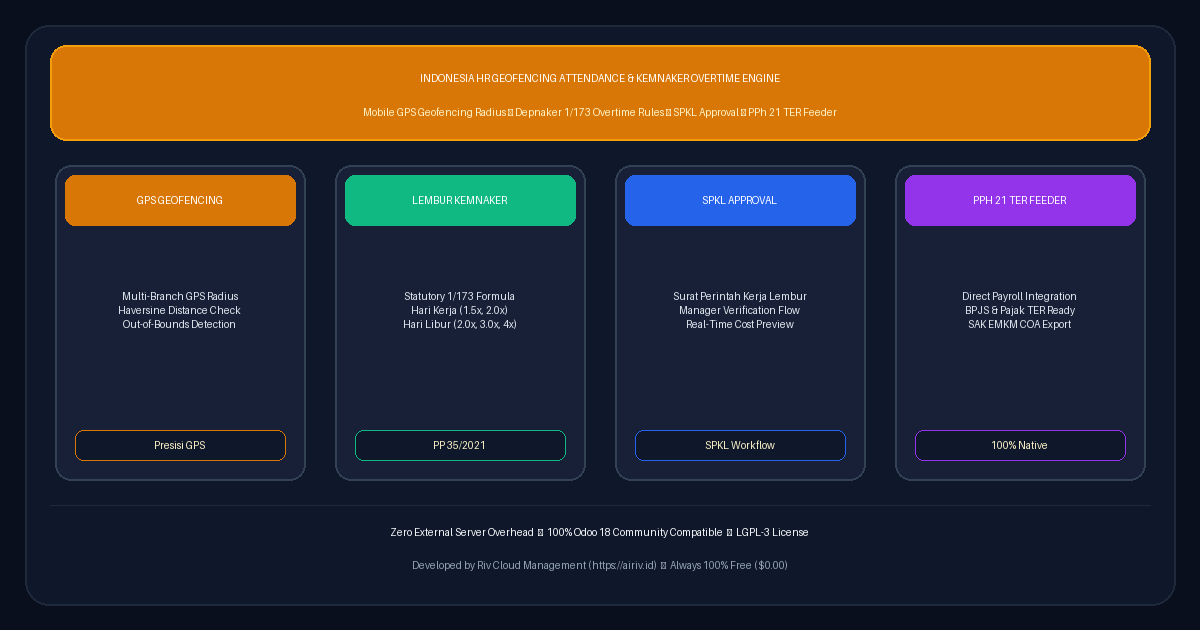
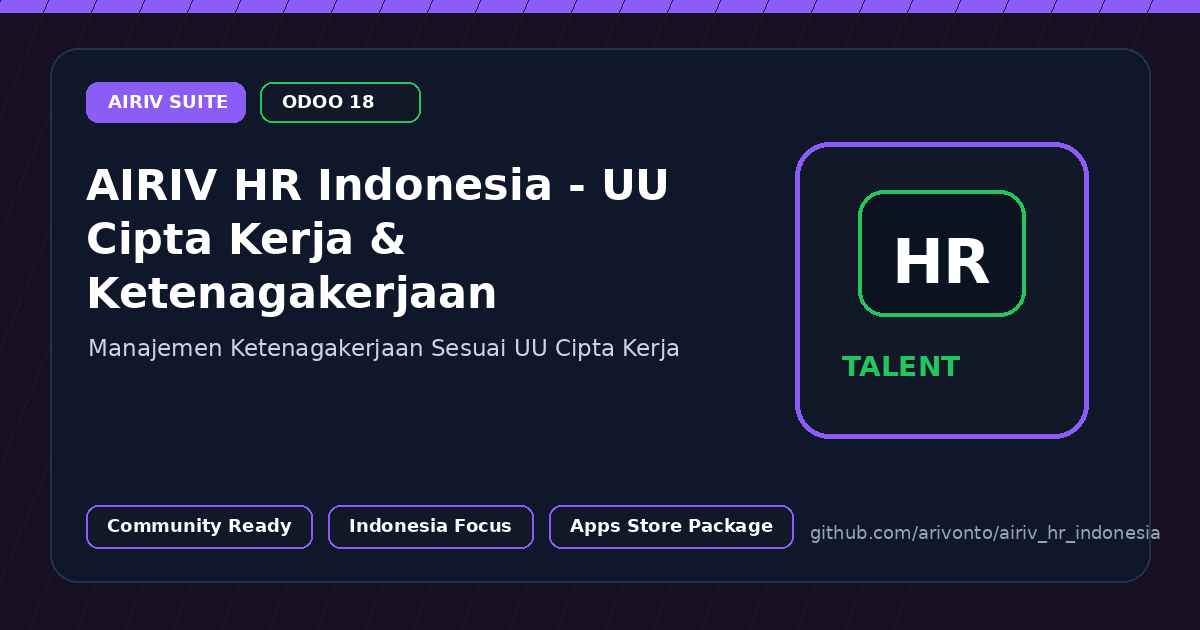
Refresh Odoo Apps Store assets and metadata

diff --git a/airiv_hr_indonesia/static/description/index.html b/airiv_hr_indonesia/static/description/index.html
@@ -1,172 +1,38 @@
 <!DOCTYPE html>
-<html lang="id">
+<html lang="en">
 <head>
-    <meta charset="utf-8"/>
-    <meta name="viewport" content="width=device-width, initial-scale=1.0"/>
-    <title>Indonesia HR Geofencing Attendance & Depnaker Overtime Engine</title>
+  <meta charset="utf-8">
+  <meta name="viewport" content="width=device-width, initial-scale=1">
+  <title>AIRIV HR Indonesia - UU Cipta Kerja & Ketenagakerjaan</title>
+  <style>
+    body { margin:0; font-family: Arial, sans-serif; color:#14212f; background:#fff; }
+    .hero { padding:44px; border-radius:18px; background:#08111f; color:#fff; }
+    .badge { display:inline-block; padding:8px 12px; border-radius:999px; background:#0f766e; font-weight:700; font-size:13px; }
+    h1 { font-size:38px; line-height:1.15; margin:20px 0 12px; }
+    .lead { font-size:18px; color:#cbd5e1; max-width:900px; }
+    .grid { display:grid; grid-template-columns:repeat(3,1fr); gap:18px; margin:24px 0; }
+    .card { border:1px solid #e5e7eb; border-radius:14px; padding:22px; background:#fff; }
+    .card h3 { margin-top:0; color:#0f766e; }
+    .section { padding:28px 0; }
+    @media (max-width: 800px) { .grid { grid-template-columns:1fr; } h1 { font-size:30px; } .hero { padding:28px; } }
+  </style>
 </head>
-<body style="font-family: -apple-system, BlinkMacSystemFont, 'Segoe UI', Roboto, Helvetica, Arial, sans-serif; color: #0f172a; background-color: #ffffff; margin: 0; padding: 16px; box-sizing: border-box;">
-
-<!-- 1. Hero Card (Clean High-Contrast Light Theme) -->
-<div style="background-color: #f8fafc; border: 1px solid #cbd5e1; border-top: 6px solid #d97706; border-radius: 12px; padding: 32px 24px; margin-bottom: 32px; text-align: center; box-shadow: 0 4px 6px -1px rgba(0,0,0,0.05);">
-    <div style="display: inline-block; background-color: #d97706; color: #ffffff; font-size: 12px; font-weight: 800; padding: 6px 14px; border-radius: 20px; margin-bottom: 14px; text-transform: uppercase; letter-spacing: 0.5px;">
-        🇮🇩 KEMNAKER PP 35/2021 & UU CIPTA KERJA
+<body>
+  <div class="hero">
+    <span class="badge">AIRIV Suite for Odoo 18</span>
+    <h1>AIRIV HR Indonesia - UU Cipta Kerja & Ketenagakerjaan</h1>
+    <p class="lead">Manajemen Ketenagakerjaan Sesuai UU Cipta Kerja</p>
+  </div>
+  <div class="section">
+    <div class="grid">
+      <div class="card"><h3>Business Ready</h3><p>Packaged as a focused Odoo application for Indonesian operating workflows.</p></div>
+      <div class="card"><h3>Community First</h3><p>Designed for Odoo 18 with clear dependencies, clean manifest metadata, and Apps Store assets.</p></div>
+      <div class="card"><h3>AIRIV UX</h3><p>Part of the AIRIV vertical ERP suite with consistent identity, iconography, and product positioning.</p></div>
     </div>
-    <h1 style="font-weight: 800; font-size: 28px; color: #0f172a; margin-top: 0; margin-bottom: 12px; line-height: 1.3;">
-        Indonesia HR Geofencing Attendance & Depnaker Overtime Engine
-    </h1>
-    <p style="font-size: 15.5px; color: #334155; max-width: 850px; margin: 0 auto 20px auto; line-height: 1.65;">
-        Advanced Indonesian HR & Attendance Suite for Odoo 18. Features GPS Workplace Geofencing with Haversine radius validation, statutory Depnaker 1/173 Overtime calculations, SPKL workflows, and PPh 21 TER feeder.
-    </p>
-    <div style="display: flex; justify-content: center; gap: 8px; flex-wrap: wrap;">
-        <span style="display: inline-block; background-color: #e2e8f0; color: #0f172a; border: 1px solid #cbd5e1; font-size: 12px; font-weight: 600; padding: 5px 12px; border-radius: 6px;">Odoo 18.0 Community</span>
-        <span style="display: inline-block; background-color: #e2e8f0; color: #0f172a; border: 1px solid #cbd5e1; font-size: 12px; font-weight: 600; padding: 5px 12px; border-radius: 6px;">LGPL-3 License</span>
-        <span style="display: inline-block; background-color: #059669; color: #ffffff; font-size: 12px; font-weight: 700; padding: 5px 12px; border-radius: 6px;">100% Free ($0.00)</span>
-        <span style="display: inline-block; background-color: #e2e8f0; color: #0f172a; border: 1px solid #cbd5e1; font-size: 12px; font-weight: 600; padding: 5px 12px; border-radius: 6px;">Zero External Overhead</span>
-    </div>
-</div>
-
-<!-- 2. Showcase Banner Image -->
-<div style="text-align: center; margin-bottom: 36px;">
-    <img src="banner.png" alt="Indonesia HR Geofencing Attendance & Depnaker Overtime Engine" style="border-radius: 12px; border: 1px solid #cbd5e1; max-width: 100%; height: auto; box-shadow: 0 4px 6px -1px rgba(0,0,0,0.08);"/>
-</div>
-
-<!-- 3. Core Pillars -->
-<div style="margin-bottom: 36px;">
-    <div style="text-align: center; margin-bottom: 24px;">
-        <h2 style="font-weight: 800; color: #0f172a; font-size: 22px; margin-top: 0; margin-bottom: 6px;">
-            Core Capabilities & Architecture
-        </h2>
-        <p style="color: #475569; font-size: 14.5px; margin: 0;">
-            Engineered specifically for Indonesian statutory compliance and operational efficiency
-        </p>
-    </div>
-
-    <div style="display: flex; flex-wrap: wrap; gap: 16px;">
-        
-        <div style="flex: 1 1 calc(25% - 16px); min-width: 240px; box-sizing: border-box; margin-bottom: 16px;">
-            <div style="background-color: #ffffff; border: 1px solid #cbd5e1; border-top: 5px solid #d97706; border-radius: 10px; padding: 20px; height: 100%; box-shadow: 0 2px 4px rgba(0,0,0,0.04); box-sizing: border-box;">
-                <h4 style="font-weight: 800; color: #0f172a; margin-top: 0; margin-bottom: 10px; font-size: 16px;">GPS Geofencing Attendance</h4>
-                <p style="font-size: 13.5px; color: #334155; line-height: 1.6; margin-bottom: 14px;">Calculates geodesic check-in distance with custom workplace tolerance radiuses (meters).</p>
-                <div style="display: inline-block; background-color: #d97706; color: #ffffff; font-size: 11px; font-weight: 700; padding: 4px 10px; border-radius: 6px; text-transform: uppercase; letter-spacing: 0.5px;">
-                    Geofence GPS
-                </div>
-            </div>
-        </div>
-        
-        <div style="flex: 1 1 calc(25% - 16px); min-width: 240px; box-sizing: border-box; margin-bottom: 16px;">
-            <div style="background-color: #ffffff; border: 1px solid #cbd5e1; border-top: 5px solid #0284c7; border-radius: 10px; padding: 20px; height: 100%; box-shadow: 0 2px 4px rgba(0,0,0,0.04); box-sizing: border-box;">
-                <h4 style="font-weight: 800; color: #0f172a; margin-top: 0; margin-bottom: 10px; font-size: 16px;">Depnaker 1/173 Hourly Rate</h4>
-                <p style="font-size: 13.5px; color: #334155; line-height: 1.6; margin-bottom: 14px;">Statutory hourly wage formula: Upah Sejam = 1/173 x (Gaji Pokok + Tunjangan Tetap).</p>
-                <div style="display: inline-block; background-color: #0284c7; color: #ffffff; font-size: 11px; font-weight: 700; padding: 4px 10px; border-radius: 6px; text-transform: uppercase; letter-spacing: 0.5px;">
-                    Formula 1/173
-                </div>
-            </div>
-        </div>
-        
-        <div style="flex: 1 1 calc(25% - 16px); min-width: 240px; box-sizing: border-box; margin-bottom: 16px;">
-            <div style="background-color: #ffffff; border: 1px solid #cbd5e1; border-top: 5px solid #059669; border-radius: 10px; padding: 20px; height: 100%; box-shadow: 0 2px 4px rgba(0,0,0,0.04); box-sizing: border-box;">
-                <h4 style="font-weight: 800; color: #0f172a; margin-top: 0; margin-bottom: 10px; font-size: 16px;">Workday & Holiday Overtime</h4>
-                <p style="font-size: 13.5px; color: #334155; line-height: 1.6; margin-bottom: 14px;">Automates Kemnaker tiered multipliers (1.5x, 2.0x, 3.0x, 4.0x) for workdays and holidays.</p>
-                <div style="display: inline-block; background-color: #059669; color: #ffffff; font-size: 11px; font-weight: 700; padding: 4px 10px; border-radius: 6px; text-transform: uppercase; letter-spacing: 0.5px;">
-                    Lembur Kemnaker
-                </div>
-            </div>
-        </div>
-        
-        <div style="flex: 1 1 calc(25% - 16px); min-width: 240px; box-sizing: border-box; margin-bottom: 16px;">
-            <div style="background-color: #ffffff; border: 1px solid #cbd5e1; border-top: 5px solid #7c3aed; border-radius: 10px; padding: 20px; height: 100%; box-shadow: 0 2px 4px rgba(0,0,0,0.04); box-sizing: border-box;">
-                <h4 style="font-weight: 800; color: #0f172a; margin-top: 0; margin-bottom: 10px; font-size: 16px;">SPKL Approval Workflow</h4>
-                <p style="font-size: 13.5px; color: #334155; line-height: 1.6; margin-bottom: 14px;">Complete drafting, review, and approval lifecycle for Surat Perintah Kerja Lembur.</p>
-                <div style="display: inline-block; background-color: #7c3aed; color: #ffffff; font-size: 11px; font-weight: 700; padding: 4px 10px; border-radius: 6px; text-transform: uppercase; letter-spacing: 0.5px;">
-                    SPKL & PPh 21
-                </div>
-            </div>
-        </div>
-        
-    </div>
-</div>
-
-<!-- 4. Key Enterprise Features -->
-<div style="background-color: #f8fafc; border: 1px solid #cbd5e1; border-radius: 12px; padding: 28px 20px; margin-bottom: 36px;">
-    <h3 style="font-weight: 800; color: #0f172a; font-size: 18px; margin-top: 0; margin-bottom: 18px; border-bottom: 2px solid #e2e8f0; padding-bottom: 10px;">
-        Key Enterprise Features & Workflow Automation
-    </h3>
-    <div style="display: flex; flex-wrap: wrap; gap: 16px;">
-        
-        <div style="flex: 1 1 calc(50% - 16px); min-width: 280px; box-sizing: border-box; margin-bottom: 16px;">
-            <div style="background-color: #ffffff; border: 1px solid #e2e8f0; border-left: 4px solid #d97706; border-radius: 8px; padding: 16px; height: 100%; box-sizing: border-box;">
-                <h5 style="font-weight: 700; color: #0f172a; margin-top: 0; margin-bottom: 8px; font-size: 15px;">1. Kemnaker PP No. 35/2021 Compliance</h5>
-                <p style="color: #334155; font-size: 13.5px; line-height: 1.6; margin: 0;">Fully implements statutory Indonesian labor regulations for overtime compensation.</p>
-            </div>
-        </div>
-        
-        <div style="flex: 1 1 calc(50% - 16px); min-width: 280px; box-sizing: border-box; margin-bottom: 16px;">
-            <div style="background-color: #ffffff; border: 1px solid #e2e8f0; border-left: 4px solid #d97706; border-radius: 8px; padding: 16px; height: 100%; box-sizing: border-box;">
-                <h5 style="font-weight: 700; color: #0f172a; margin-top: 0; margin-bottom: 8px; font-size: 15px;">2. Mobile Clock-In Tagging</h5>
-                <p style="color: #334155; font-size: 13.5px; line-height: 1.6; margin: 0;">Automatically flags records as Valid (Within Radius) or Out of Bounds.</p>
-            </div>
-        </div>
-        
-        <div style="flex: 1 1 calc(50% - 16px); min-width: 280px; box-sizing: border-box; margin-bottom: 16px;">
-            <div style="background-color: #ffffff; border: 1px solid #e2e8f0; border-left: 4px solid #d97706; border-radius: 8px; padding: 16px; height: 100%; box-sizing: border-box;">
-                <h5 style="font-weight: 700; color: #0f172a; margin-top: 0; margin-bottom: 8px; font-size: 15px;">3. PPh 21 TER Payroll Integration</h5>
-                <p style="color: #334155; font-size: 13.5px; line-height: 1.6; margin: 0;">Approved overtime compensation feeds directly into payslips for automated tax computation.</p>
-            </div>
-        </div>
-        
-        <div style="flex: 1 1 calc(50% - 16px); min-width: 280px; box-sizing: border-box; margin-bottom: 16px;">
-            <div style="background-color: #ffffff; border: 1px solid #e2e8f0; border-left: 4px solid #d97706; border-radius: 8px; padding: 16px; height: 100%; box-sizing: border-box;">
-                <h5 style="font-weight: 700; color: #0f172a; margin-top: 0; margin-bottom: 8px; font-size: 15px;">4. Multi-Branch Workplace Zones</h5>
-                <p style="color: #334155; font-size: 13.5px; line-height: 1.6; margin: 0;">Set individual GPS coordinates and radiuses for head offices, factories, and retail outlets.</p>
-            </div>
-        </div>
-        
-    </div>
-</div>
-
-<!-- 5. Technical Specifications Table -->
-<div style="margin-bottom: 36px;">
-    <h3 style="font-weight: 800; color: #0f172a; font-size: 18px; margin-top: 0; margin-bottom: 14px;">
-        Module Technical Specifications
-    </h3>
-    <div style="overflow-x: auto;">
-        <table style="width: 100%; border-collapse: collapse; font-size: 13.5px; border: 1px solid #cbd5e1; background-color: #ffffff;">
-            <tbody>
-                <tr style="border-bottom: 1px solid #cbd5e1;">
-                    <td style="font-weight: 700; width: 30%; background-color: #f1f5f9; color: #0f172a; padding: 12px 16px; border-right: 1px solid #cbd5e1;">Framework Compatibility</td>
-                    <td style="color: #0f172a; padding: 12px 16px;">Odoo 18.0 Community Edition (OWL 2.0 & App Drawer Native)</td>
-                </tr>
-                <tr style="border-bottom: 1px solid #cbd5e1;">
-                    <td style="font-weight: 700; background-color: #f1f5f9; color: #0f172a; padding: 12px 16px; border-right: 1px solid #cbd5e1;">License & Price</td>
-                    <td style="color: #0f172a; padding: 12px 16px;">GNU LGPL-3 &bull; <strong style="color: #059669;">Free ($0.00)</strong></td>
-                </tr>
-                <tr style="border-bottom: 1px solid #cbd5e1;">
-                    <td style="font-weight: 700; background-color: #f1f5f9; color: #0f172a; padding: 12px 16px; border-right: 1px solid #cbd5e1;">Dependencies</td>
-                    <td style="color: #0f172a; padding: 12px 16px;"><code style="background-color: #f1f5f9; color: #0f172a; padding: 2px 6px; border-radius: 4px; font-weight: 600;">base, hr, hr_attendance, airiv_payroll_indonesia</code></td>
-                </tr>
-                <tr style="border-bottom: 1px solid #cbd5e1;">
-                    <td style="font-weight: 700; background-color: #f1f5f9; color: #0f172a; padding: 12px 16px; border-right: 1px solid #cbd5e1;">Regulatory Standards</td>
-                    <td style="color: #0f172a; padding: 12px 16px;">Kemnaker PP No. 35/2021, UU Cipta Kerja No. 6/2023, Formula Lembur 1/173</td>
-                </tr>
-                <tr>
-                    <td style="font-weight: 700; background-color: #f1f5f9; color: #0f172a; padding: 12px 16px; border-right: 1px solid #cbd5e1;">Developer</td>
-                    <td style="color: #0f172a; padding: 12px 16px;">Riv Cloud Management (<a href="https://airiv.id" target="_blank" style="color: #0284c7; text-decoration: underline; font-weight: 600;">https://airiv.id</a>)</td>
-                </tr>
-            </tbody>
-        </table>
-    </div>
-</div>
-
-<!-- 6. Footer -->
-<div style="text-align: center; padding: 20px 0; border-top: 1px solid #cbd5e1; color: #475569; font-size: 13.5px;">
-    <p style="margin-bottom: 8px; color: #334155;">
-        Developed for Indonesian Businesses & Enterprises &bull; <strong>Riv Cloud Management</strong>
-    </p>
-    <a href="https://airiv.id" target="_blank" style="display: inline-block; background-color: #0f172a; color: #ffffff; font-weight: 700; padding: 7px 18px; border-radius: 6px; text-decoration: none; font-size: 12.5px;">
-        Visit airiv.id
-    </a>
-</div>
-
+  </div>
+  <div class="section">
+    <h2>Overview</h2>
+    <p>Modul Sumber Daya Manusia dan Ketenagakerjaan Indonesia.</p>
+  </div>
 </body>
 </html>

diff --git a/models/hr_attendance.py b/models/hr_attendance.py
@@ -15,12 +15,11 @@ class HrAttendance(models.Model):
             ('refused', 'Lembur Ditolak'),
         ],
         ondelete={
-            'pending': 'set default',
-            'approved': 'set default',
-            'refused': 'set default',
+            'pending': 'set null',
+            'approved': 'set null',
+            'refused': 'set null',
         },
         string="Status Lembur",
-        default='none',
         tracking=True,
     )
 

diff --git a/__init__.py b/__init__.py
@@ -1,0 +1,1 @@
+from . import models

diff --git a/README.md b/README.md
@@ -1,81 +1,27 @@
-# Indonesia HR Geofencing Attendance & Depnaker Overtime Engine
+# AIRIV HR Indonesia - UU Cipta Kerja & Ketenagakerjaan
 
-[![License: LGPL-3](https://img.shields.io/badge/License-LGPL--3-blue.svg)](https://www.gnu.org/licenses/lgpl-3.0)
-[![Odoo: 18.0 Community](https://img.shields.io/badge/Odoo-18.0%20Community-purple.svg)](https://www.odoo.com)
-[![Price: Free ($0.00)](https://img.shields.io/badge/Price-%240.00%20(Free)-green.svg)](https://airiv.id)
-[![Compliance: Kemnaker PP 35/2021](https://img.shields.io/badge/Compliance-Kemnaker%20PP%2035%2F2021-amber.svg)](https://airiv.id)
+Manajemen Ketenagakerjaan Sesuai UU Cipta Kerja
 
-A specialized human resources and attendance extension for **Odoo 18.0 Community Edition**. Built for Indonesian enterprises, clinics, factories, retail outlets, and SMBs requiring **Mobile GPS Geofencing Attendance** and statutory **Depnaker Overtime (*Perhitungan Lembur Kemnaker*)** compliance according to **PP No. 35/2021 & UU Cipta Kerja**.
+## Odoo Apps Store
 
----
+This repository contains the Odoo 18 module package for `airiv_hr_indonesia`.
 
-## Detailed Capabilities
+Required store assets are maintained in:
 
-### 1. Workplace GPS Geofencing Attendance
-* **Multi-Branch Geofencing Zones**: Configure latitude, longitude, and custom tolerance radius (meters) for head offices, branch clinics, and warehouses.
-* **Haversine Distance Verification**: Real-time geodesic distance calculation upon employee mobile check-in.
-* **Geofence Status Tagging**: Automatically flags attendance records as `Valid (Dalam Radius)`, `Diluar Radius Kerja (Out of Bounds)`, or `Manual`.
+```text
+airiv_hr_indonesia/static/description/
+  icon.png
+  banner.png
+  index.html
+```
 
-### 2. Depnaker Statutory Overtime Engine (*Perhitungan Lembur Kemnaker*)
-* **Statutory Hourly Rate (1/173 Formula)**:
-  $$\text{Upah Sejam} = \frac{1}{173} \times (\text{Gaji Pokok} + \text{Tunjangan Tetap})$$
-* **Workday Overtime Multiplier (*Hari Kerja*)**:
-  * 1st Hour: $1.5\times$ hourly wage.
-  * 2nd & Subsequent Hours: $2.0\times$ hourly wage.
-* **Weekend & Holiday Overtime Multiplier (*Hari Istirahat / Libur Resmi*)**:
-  * Hours 1 to 8: $2.0\times$ hourly wage.
-  * 9th Hour: $3.0\times$ hourly wage.
-  * 10th Hour & Beyond: $4.0\times$ hourly wage.
-* **SPKL Approval Workflow**: Complete drafting, manager review, and approval flow for *Surat Perintah Kerja Lembur*.
+## Technical
 
-### 3. PPh 21 TER Payroll Integration Feeder
-* Approved overtime compensation and attendance deductions feed directly into `airiv_payroll_indonesia` payslips for automated monthly PPh 21 TER (Tarif Efektif Rata-rata) processing.
+- Odoo version: `18.0.1.0.0`
+- License: `LGPL-3`
+- Author: `Riv Cloud Management`
+- Website: `https://airiv.id`
 
----
+## Quality Gate
 
-## Validated Commercial Benchmark (Tested & Audited)
-
-The module was verified under live Odoo 18.0 Community conditions:
-
-1. **GPS Geofence Validation**:
-   - Geofence Zone: Center $(-6.2750000, 106.7650000)$ with 100m radius.
-   - Check-in A (15.68m distance): Status $\rightarrow$ `VALID`.
-   - Check-in B (778.36m distance): Status $\rightarrow$ `OUT_OF_BOUNDS`.
-2. **Depnaker Statutory Wage Benchmark**:
-   - Employee Basic Salary: Rp 5.190.000,00 $\rightarrow$ Hourly Rate (1/173): **Rp 30.000,00 / hour**.
-3. **Workday Overtime Calculation (3 Hours)**:
-   - Multiplier Hours: $1.0 \times 1.5 + 2.0 \times 2.0 = \mathbf{5.5\text{ jam}}$.
-   - Total Overtime Compensation: $5.5 \times \text{Rp } 30.000,00 = \mathbf{\text{Rp } 165.000,00}$.
-4. **Weekend / Holiday Overtime Calculation (9 Hours)**:
-   - Multiplier Hours: $8.0 \times 2.0 + 1.0 \times 3.0 = \mathbf{19.0\text{ jam}}$.
-   - Total Overtime Compensation: $19.0 \times \text{Rp } 30.000,00 = \mathbf{\text{Rp } 570.000,00}$.
-5. **SPKL Approval**: Verified batch transition to `approved` accumulating 12.0 total verified overtime hours for payroll processing.
-
----
-
-## Installation & Odoo Configuration Guide
-
-1. **Deploy Module**:
-   Place `airiv_hr_indonesia` inside your Odoo `custom_addons` directory (requires `hr`, `hr_attendance`, and `airiv_payroll_indonesia`).
-
-2. **Activate Module**:
-   * Navigate to **Apps > Update Apps List**.
-   * Search for `Indonesia HR Geofencing Attendance & Depnaker Overtime Engine` and click **Activate**.
-
-3. **Setup GPS Geofence & Wages**:
-   * Open **HR & Kehadiran > Zona Geofencing GPS** to register company GPS coordinates.
-   * Enter monthly basic salary in the Employee profile to automatically compute the 1/173 Depnaker hourly rate.
-   * Manage and approve overtime forms under **HR & Kehadiran > Lembur Karyawan (SPKL)**.
-
----
-
-## Module Specifications
-
-| Specification | Details |
-| :--- | :--- |
-| **Framework Version** | Odoo 18.0 Community Edition (OWL & App Drawer compliant) |
-| **License** | GNU Lesser General Public License v3.0 (LGPL-3) |
-| **Price** | Free ($0.00) |
-| **Dependencies** | `base`, `hr`, `hr_attendance`, `airiv_payroll_indonesia` |
-| **Regulatory Standards** | Kemnaker PP No. 35/2021, UU Cipta Kerja, Formula Lembur 1/173 |
-| **Server Overhead** | Zero (Native ORM, direct SQL aggregation) |
+GitHub Actions runs the AIRIV Odoo Apps Store CI audit on branch `18.0`.
